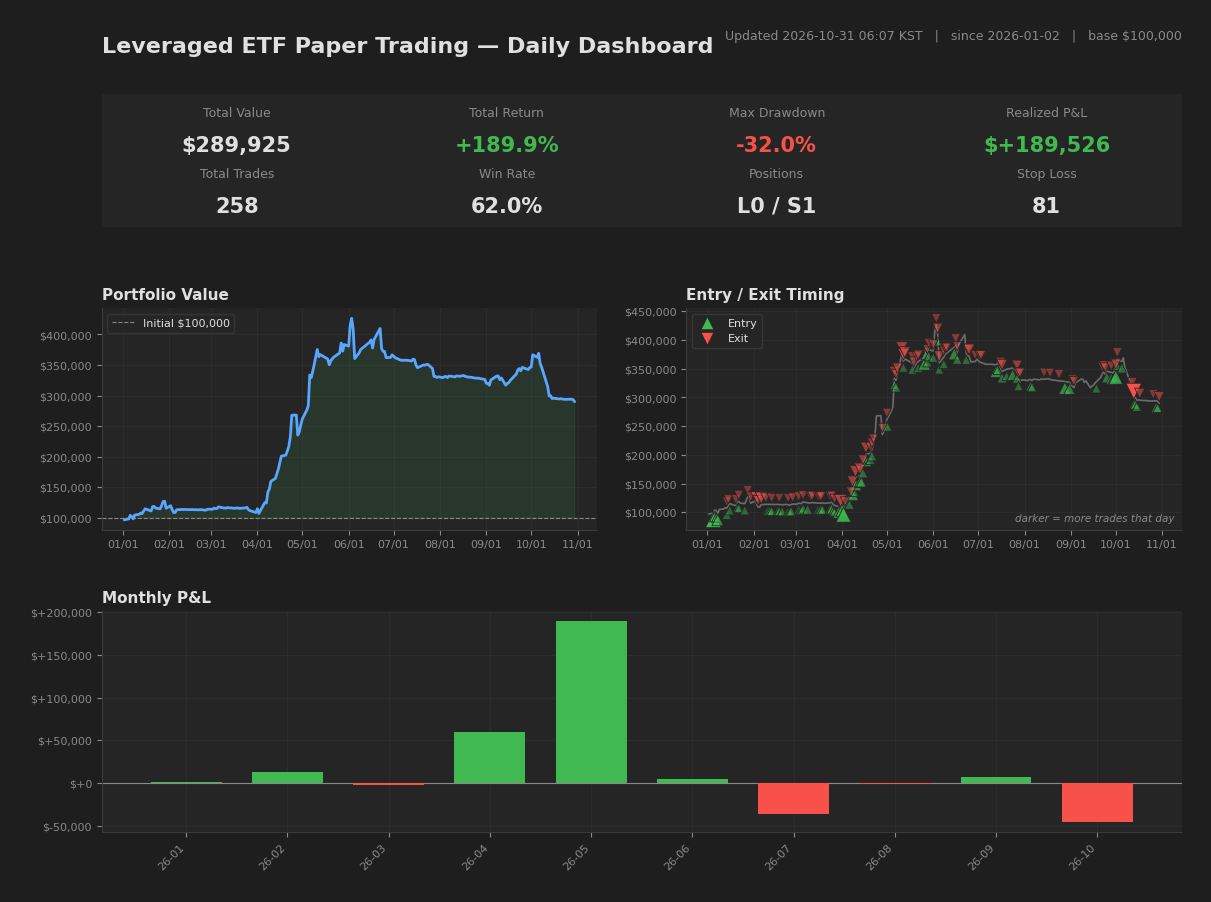
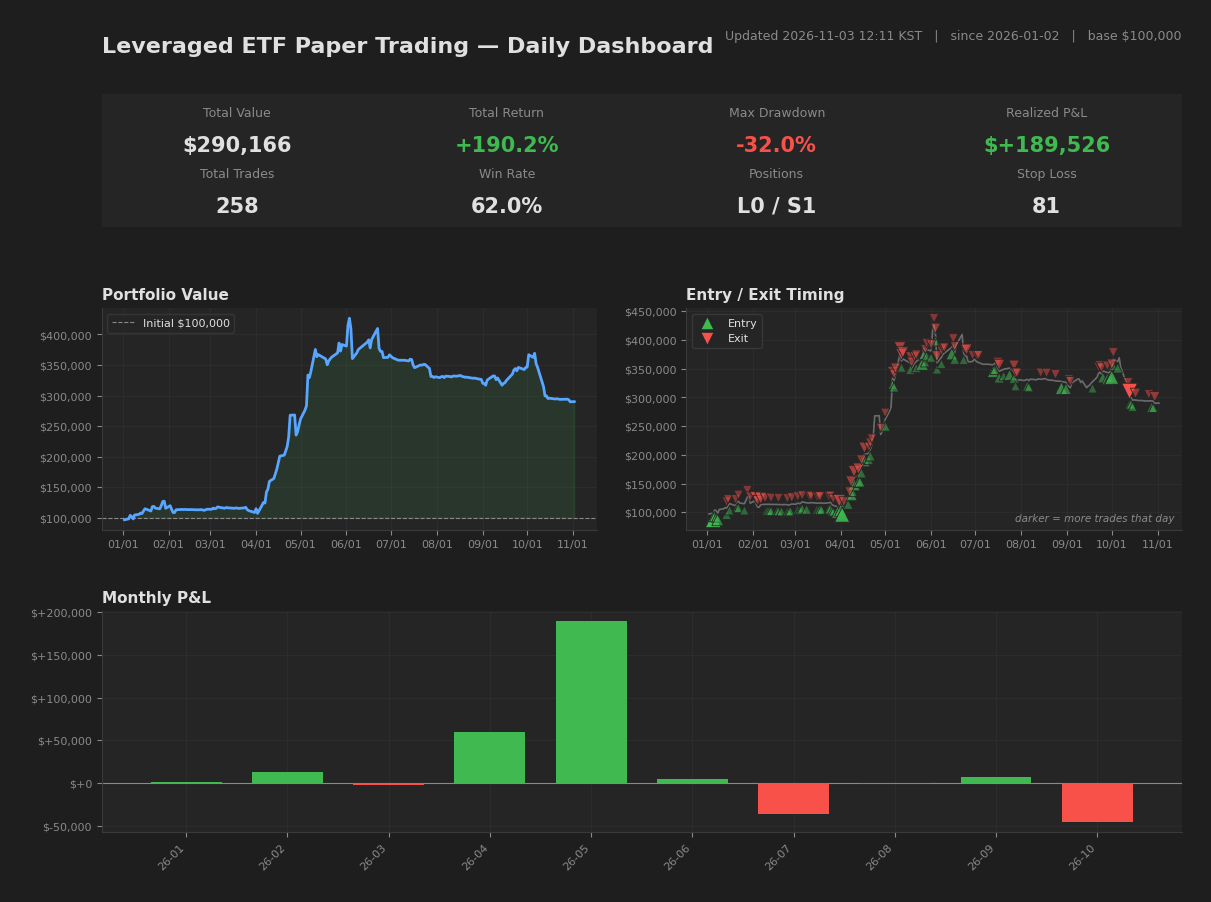
[2026-11-02] Close
Portfolio: $290,166 (+190.2%)
Positions: 1 (L0 S1)
Cumulative: 160/258 wins, P&L: $+189,526

diff --git a/README.md b/README.md
@@ -19,8 +19,8 @@ Focus on risk management, not headline returns. The strategy targets leveraged E
 Drawdown control vs. benchmark. While the benchmark experienced a maximum drawdown of roughly 40–50% over the same period, this strategy's own drawdown is reported below, measured from the paper-trading equity curve and refreshed automatically after each market close.
 
 <!-- METRICS:BEGIN (auto-generated by snapshot_backup.py after each market close; do not edit by hand) -->
-- Maximum drawdown: **-32.01%** (peak 2026-06-03 -> trough 2026-10-30, still in drawdown at this date)
-- As of **2026-10-30** market close. Updated automatically after each close.
+- Maximum drawdown: **-32.02%** (peak 2026-06-03 -> trough 2026-10-30, recovered since)
+- As of **2026-11-02** market close. Updated automatically after each close.
 <!-- METRICS:END -->
 
 Execution costs. Because the strategy holds positions over multi-day periods with low turnover, the impact of slippage and commissions is designed to be limited rather than a primary driver of results.
